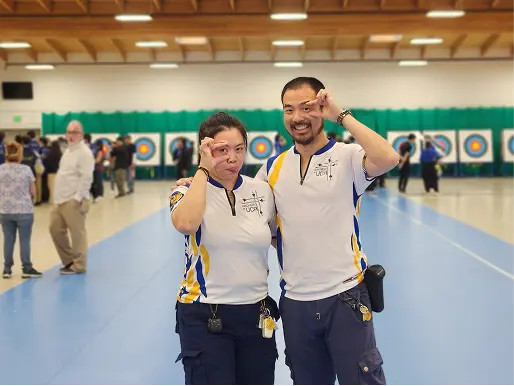
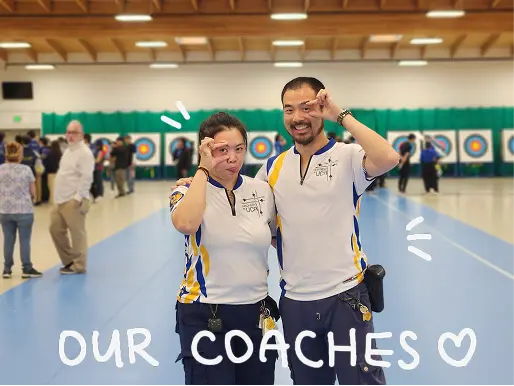
Coaches

diff --git a/src/components/about/openPractices.tsx b/src/components/about/openPractices.tsx
@@ -1,56 +1,51 @@
 import Image from "next/image";
 import { OpenPracticePics } from "@/data/openPracticePics";
 import InfoCard from "@/components/infocard";
-import Header from "@/components/header";
-import { FaLocationDot } from "react-icons/fa6";
+import Subheader from "@/components/subheader";
+import { LiaMapMarkerAltSolid } from "react-icons/lia";
 
 const OpenPractices = () => {
   return (
     <div>
-      <div className="relative">
-        <Header title="Open Practices" />
+      <div className="relative p-15">
+        <Subheader name="Open Practices" />
       </div>
       <div className="flex flex-row justify-center gap-6 px-6 py-6 sm:gap-3 md:gap-5">
         <InfoCard title="Time" description="Every Friday 2-5:45pm" />
         <InfoCard
-          icon={FaLocationDot}
+          icon={LiaMapMarkerAltSolid}
           title="Location"
           description="Glen Mor Fields"
         />
       </div>
 
-      <div className="flex flex-col gap-4 sm:flex-row">
-        <div className="relative aspect-[15/10] w-full sm:flex-1">
+      <div className="flex flex-col items-center gap-2 px-10 sm:flex-row sm:items-end sm:justify-center lg:px-25">
+        <div className="relative aspect-[3/4] h-[420px] w-full sm:flex-1">
           <Image
             src={OpenPracticePics.left}
-            alt="Open Practice L"
-            fill
-            className="object-cover"
+            alt="Open Practice Left"
+            width={400}
+            height={533}
+            className="h-full w-full object-cover"
           />
         </div>
 
-        <div className="relative aspect-[15/10] w-full sm:flex-1">
+        <div className="relative aspect-[3/4] h-[420px] w-full sm:flex-[1.4]">
           <Image
             src={OpenPracticePics.mid}
             alt="Our Coaches"
-            fill
-            className="object-cover"
+            width={600}
+            height={600}
+            className="h-full w-full object-cover"
           />
-          <div className="absolute inset-0">
-            <Image
-              src={OpenPracticePics.description}
-              alt="Our Coachers <3"
-              fill
-              className="object-cover"
-            />
-          </div>
         </div>
-        <div className="relative aspect-[15/10] w-full sm:flex-1">
+        <div className="relative aspect-[3/4] h-[420px] w-full sm:flex-1">
           <Image
             src={OpenPracticePics.right}
             alt="Open Practices"
-            fill
-            className="object-cover"
+            width={400}
+            height={533}
+            className="h-full w-full object-cover"
           />
         </div>
       </div>

diff --git a/src/components/about/gallery.tsx b/src/components/about/gallery.tsx
@@ -2,15 +2,19 @@ import GalleryCard from "@/components/about/gallerycard";
 import { galleryItems } from "@/data/gallerycards";
 import galleryBackground from "@/public/galleryBackground.webp";
 import Image from "next/image";
-import Header from "@/components/header";
+import Subheader from "@/components/subheader";
 
 const Gallery = () => {
   return (
     <div>
-      <Header
-        title="Gallery"
-        subTitle="Check out our competitions and events!"
-      />
+      <div className="relative pt-25">
+        <Subheader name="Gallery" />
+      </div>
+      <div className="flex justify-center p-5 text-center text-2xl font-bold">
+        <p className="from-archery-yellow-300 to-archery-blue-300 bg-gradient-to-r bg-clip-text p-5 text-transparent">
+          Check out our competitions and events!
+        </p>
+      </div>
 
       <div className="relative min-h-screen w-full py-8 md:py-12 lg:py-20">
         <Image

diff --git a/src/data/openPracticePics.ts b/src/data/openPracticePics.ts
@@ -1,11 +1,9 @@
 import left from "@/public/OpenPractices_left.webp";
 import right from "@/public/OpenPractices_right.webp";
 import mid from "@/public/OpenPractices_mid.webp";
-import des from "@/public/OpenPractices_MidDesign.svg";
 
 export const OpenPracticePics = {
   left,
   right,
   mid,
-  description: des,
 };
